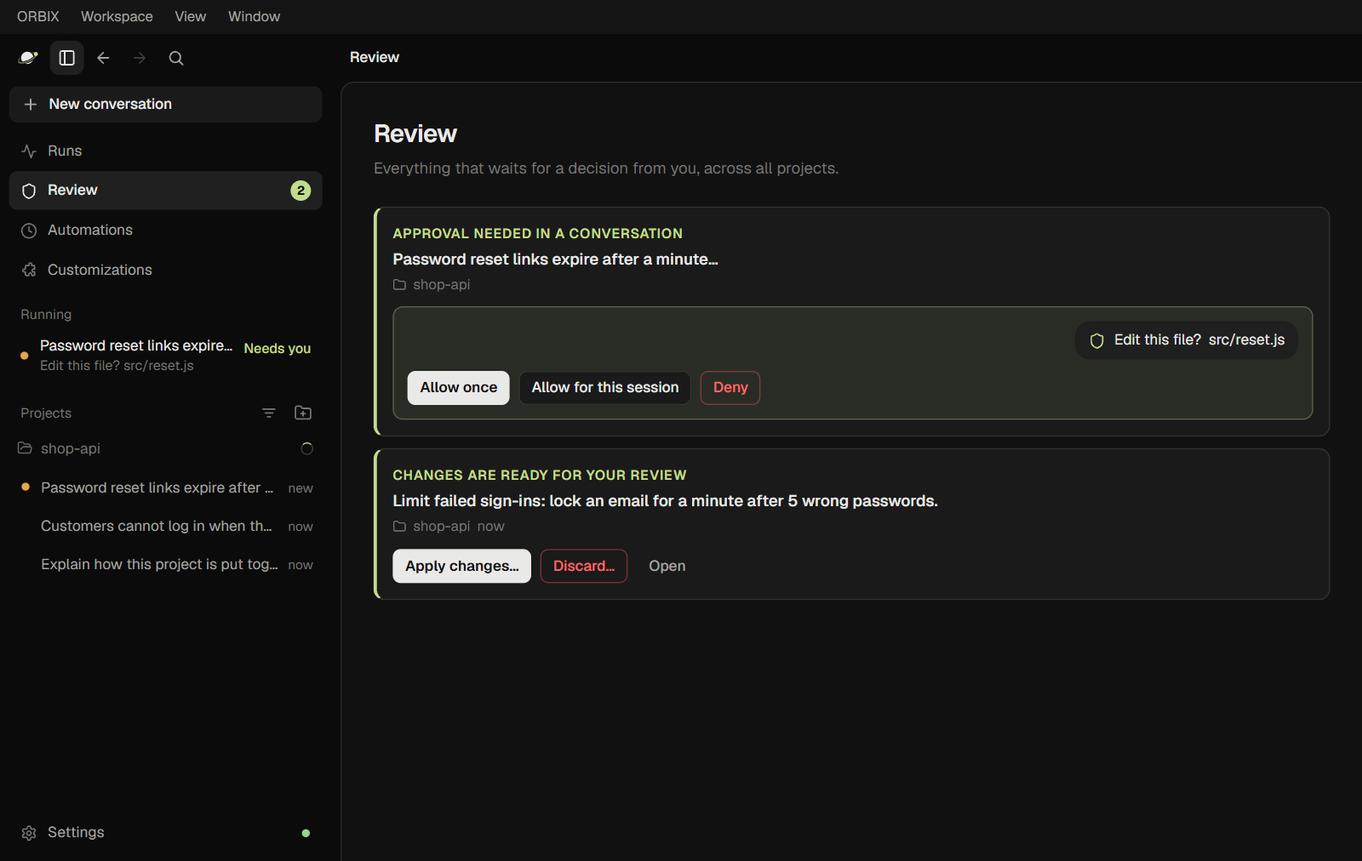
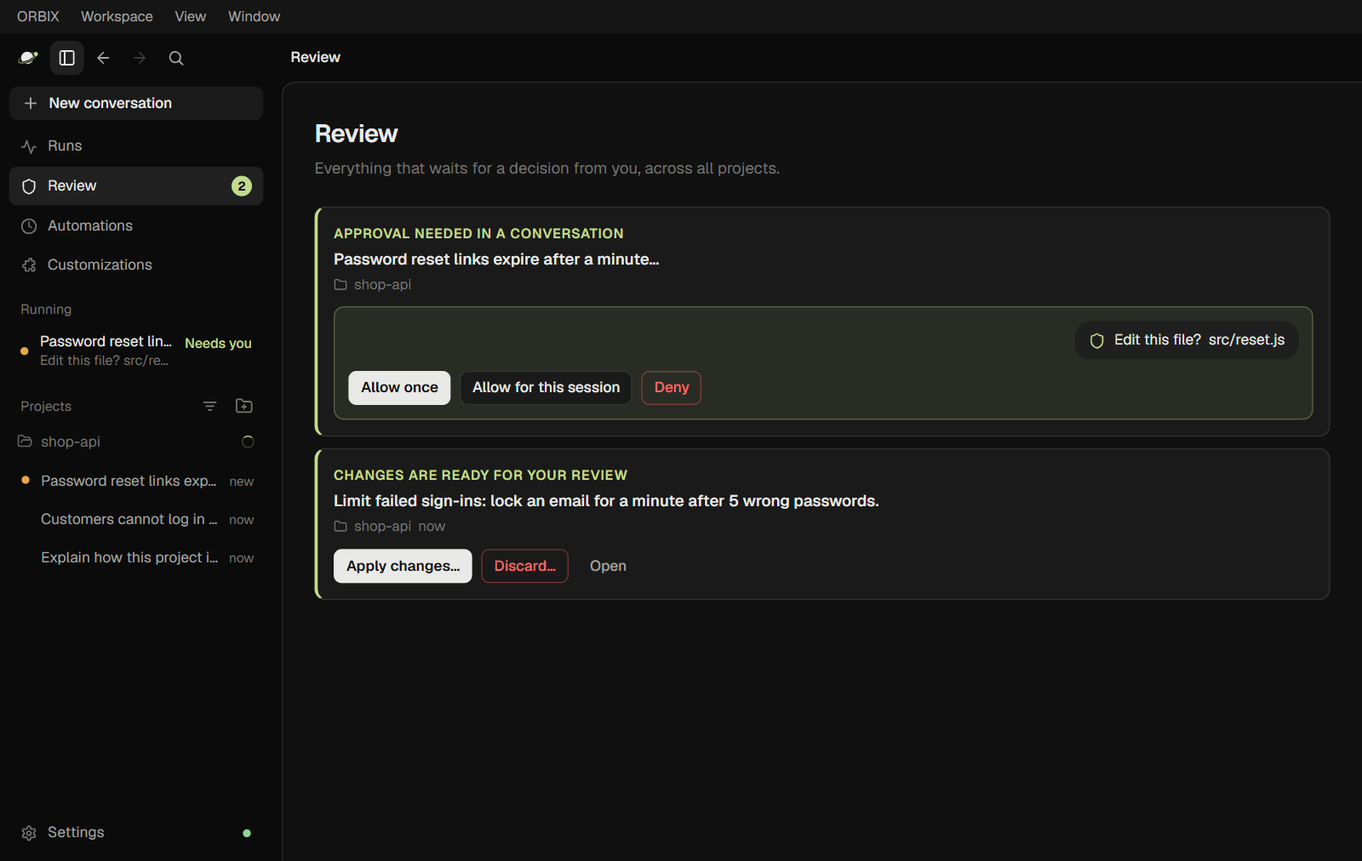
3.8.0: chat first, sharper replies, thumbs on replies
- Side panel closed until opened; sidebar 240px; centred column
  (clamp 560-664px). Old configs switch once (layoutOnce; a dragged
  sidebar width is kept).
- Replies: tighter rhythm, white bullets, amber inline code without a
  border (paths alike), compact user bubble, calmer Home title.
- Copy, thumbs up, thumbs down, retry, time and model in one row; marks
  stay in localStorage; thumbs down offers answer again, another model,
  or a prefilled report (Settings -> Give feedback).
- Removed the old settings overview styles and four unused exports.

diff --git a/site/index.html b/site/index.html
@@ -74,8 +74,8 @@
       <div class="hero-bg" aria-hidden="true"><canvas class="orbit"></canvas></div>
       <div class="hero-in">
         <a class="pill" href="#releases" data-reveal>
-          <span class="pill-v">3.7.0</span>
-          <span>New Settings, your own shortcuts, a built-in browser</span>
+          <span class="pill-v">3.8.0</span>
+          <span>Chat first, sharper replies, 👍 and 👎</span>
           <svg class="pill-go" viewBox="0 0 16 16" width="14" height="14" aria-hidden="true"><path d="M6 4l4 4-4 4" fill="none" stroke="currentColor" stroke-width="1.5" stroke-linecap="round" stroke-linejoin="round"/></svg>
         </a>
         <h1 id="hero-t" class="hero-t" data-split>The coding agent that <em>asks first.</em></h1>
@@ -91,7 +91,7 @@
           </a>
         </div>
         <ul class="facts" data-reveal aria-label="About the installer">
-          <li><code>ORBIX-Setup-3.7.0.exe</code></li>
+          <li><code>ORBIX-Setup-3.8.0.exe</code></li>
           <li>116 MB</li>
           <li>Windows 10 and 11, x64</li>
           <li>No admin rights</li>
@@ -113,7 +113,7 @@
 
     <section class="spec wrap" aria-label="Release facts">
       <dl>
-        <div><dt>Version</dt><dd>3.7.0</dd></div>
+        <div><dt>Version</dt><dd>3.8.0</dd></div>
         <div><dt>Released</dt><dd>Nov 20, 2026</dd></div>
         <div><dt>Installer</dt><dd>116 MB, per user</dd></div>
         <div><dt>Providers</dt><dd>17, plus custom servers</dd></div>
@@ -267,7 +267,7 @@
     <section id="screens" class="sec wrap" aria-labelledby="shots-t">
       <header class="sec-head center">
         <p class="eyebrow" data-reveal>Screens</p>
-        <h2 id="shots-t" data-reveal>Screens from 3.7.0.</h2>
+        <h2 id="shots-t" data-reveal>Screens from 3.8.0.</h2>
       </header>
       <div class="gallery" data-reveal>
         <div class="g-tabs" role="tablist" aria-label="Screens">
@@ -355,10 +355,10 @@
         <h2 id="rel-t" data-reveal>Shipped often, written down plainly.</h2>
       </header>
       <ol class="rel">
-        <li data-reveal><time datetime="2026-11-20">Nov 20, 2026</time><a href="https://github.com/chsxthwik/ORBIX/releases/tag/v3.7.0"><b>3.7.0</b><span>Settings redesigned, shortcuts you can change, network access rules for web reads, a built-in browser in the Windows app, project pages and Give feedback.</span><em>Latest</em></a></li>
+        <li data-reveal><time datetime="2026-11-20">Nov 20, 2026</time><a href="https://github.com/chsxthwik/ORBIX/releases/tag/v3.8.0"><b>3.8.0</b><span>Chat first: the side panel starts closed, a narrower sidebar and column, sharper replies with quieter inline code, and 👍 / 👎 on every reply.</span><em>Latest</em></a></li>
+        <li data-reveal><time datetime="2026-11-20">Nov 20, 2026</time><a href="https://github.com/chsxthwik/ORBIX/releases/tag/v3.7.0"><b>3.7.0</b><span>Settings redesigned, shortcuts you can change, network access rules for web reads, a built-in browser in the Windows app, project pages and Give feedback.</span></a></li>
         <li data-reveal><time datetime="2026-11-20">Nov 20, 2026</time><a href="https://github.com/chsxthwik/ORBIX/releases/tag/v3.6.0"><b>3.6.0</b><span>Automations on a schedule, a Browser tab that previews the apps running on your PC, side questions with /btw, and rule files with triggers.</span></a></li>
         <li data-reveal><time datetime="2026-11-20">Nov 20, 2026</time><a href="https://github.com/chsxthwik/ORBIX/releases/tag/v3.5.1"><b>3.5.1</b><span>Settings fixed on wide screens, deleted conversations restorable for 30 days, a wider side panel, fireworks off the sidebar.</span></a></li>
-        <li data-reveal><time datetime="2026-11-20">Nov 20, 2026</time><a href="https://github.com/chsxthwik/ORBIX/releases/tag/v3.5.0"><b>3.5.0</b><span>Settings as a page with Preferences, Notifications, Projects and Worktrees; archive and sort in the sidebar; send with Ctrl+Enter; a taskbar flash and chime when the agent needs you.</span></a></li>
         <li data-reveal><time datetime="2026-11-20">Nov 20, 2026</time><a href="https://github.com/chsxthwik/ORBIX/releases/tag/v3.3.0"><b>3.3.0</b><span>Runs: a task planned, approved and done in its own git worktree, then reviewed and applied. One Review queue, recovery after a restart, folded steps.</span></a></li>
         <li data-reveal><time datetime="2026-11-04">Nov 4, 2026</time><a href="https://github.com/chsxthwik/ORBIX/releases/tag/v3.0.0"><b>3.0.0</b><span>First release of ORBIX as a Windows app with its own agent.</span></a></li>
       </ol>
@@ -392,7 +392,7 @@
           <img class="cta-logo" src="assets/img/logo.svg?v=7" alt="" width="56" height="56" loading="lazy">
           <h2 id="start-t">Install ORBIX</h2>
           <ol class="steps">
-            <li><kbd>1</kbd><span>Run <code>ORBIX-Setup-3.7.0.exe</code>. It installs for your account only.</span></li>
+            <li><kbd>1</kbd><span>Run <code>ORBIX-Setup-3.8.0.exe</code>. It installs for your account only.</span></li>
             <li><kbd>2</kbd><span>Open Settings &rarr; Providers and connect a model.</span></li>
             <li><kbd>3</kbd><span>Open a project folder, describe a task and press Enter.</span></li>
           </ol>
@@ -402,7 +402,7 @@
               Download for Windows
             </a>
           </div>
-          <p class="cta-meta">3.7.0 &middot; 116 MB &middot; Windows 10 and 11, x64 &middot; Updates itself from GitHub releases</p>
+          <p class="cta-meta">3.8.0 &middot; 116 MB &middot; Windows 10 and 11, x64 &middot; Updates itself from GitHub releases</p>
         </div>
       </div>
     </section>

diff --git a/web/js/main.js b/web/js/main.js
@@ -13,7 +13,7 @@ import { openHelp } from './help.js';
 import { mountPanel, showTab, viewFile, stepPanelTab } from './panels.js';
 import { actionFor, comboOf, firstKey } from './keys.mjs';
 import { browserPrefs, desktopBrowser, canShowInside } from './browser.js';
-import { settingsSearchItems } from './settings.js';
+import { settingsSearchItems, openFeedback } from './settings.js';
 import { H as shell, drawMenubar, drawToolbar, tickToolbar, syncOverview, navRecord, navGo, bindHoverCards, updatedLabel } from './shell.js';
 import { folderPicker, palette, syncExtDialogs, confirmDialog, promptDialog, popMenu, isApproval } from './dialogs.js';
 import { onBoard, boardState } from './review.js';
@@ -50,12 +50,12 @@ const overlay = { side: false, panel: false };
 // Every theme belongs to a mode (dark or light); the mode drives color-scheme and anything that only needs to know which.
 const THEMES = { dark: 'dark', light: 'light', midnight: 'dark', frost: 'light', orbix: 'dark', sunset: 'dark', koi: 'light', aurora: 'dark', dusk: 'dark' };
 /** The Windows app's interface size: a chosen factor, or on Auto one that fits the screen (larger on wide screens). */
-export function interfaceScale(v, screenWidth = window.orbixDesktop?.screenWidth || 0) {
+function interfaceScale(v, screenWidth = window.orbixDesktop?.screenWidth || 0) {
   if (typeof v === 'number' && v >= 0.5 && v <= 2) return v;
   return screenWidth >= 3000 ? 1.25 : screenWidth >= 2300 ? 1.15 : 1;
 }
 // The sidebar can be dragged between these widths (double-click the edge to reset).
-const SIDE_MIN = 220, SIDE_MAX = 440, SIDE_W = 264;
+const SIDE_MIN = 200, SIDE_MAX = 440, SIDE_W = 240;
 
 function applyPrefs() {
   const u = S.ui;
@@ -70,10 +70,10 @@ function applyPrefs() {
   root.style.setProperty('--fs', (u.fontSize || 14) + 'px');
   root.classList.toggle('compact', u.density === 'compact');
   root.dataset.density = u.density === 'compact' ? 'compact' : 'comfortable';
-  root.style.setProperty('--side-w', Math.min(SIDE_MAX, Math.max(SIDE_MIN, u.sidebarW || 264)) + 'px');
+  root.style.setProperty('--side-w', Math.min(SIDE_MAX, Math.max(SIDE_MIN, u.sidebarW || SIDE_W)) + 'px');
   root.style.setProperty('--panel-w', (u.panelW || 380) + 'px');
   const side = narrowSide.matches ? overlay.side : u.sidebar !== false;
-  const panel = !!activeTab() && !isHub() && (narrowPanel.matches ? overlay.panel : u.rightPanel !== false);
+  const panel = !!activeTab() && !isHub() && (narrowPanel.matches ? overlay.panel : u.rightPanel === true); // closed until you open it
   appEl.classList.toggle('no-side', !side);
   appEl.classList.toggle('no-panel', !panel);
   appEl.classList.toggle('overlay-side', side && narrowSide.matches);
@@ -584,6 +584,7 @@ on('search', (scope) => openSearch(scope));
 on('open-run', (id) => goHub(id ? 'run' : 'runs', id || undefined));
 on('open-tab', (id) => S.tabs.has(id) && setActive(id));
 on('open-session', (s) => s && openSession(s));
+on('feedback', (draft) => openFeedback(draft));
 // Links in replies open where Settings → Browser says: the Browser tab beside the conversation, or your own browser.
 document.addEventListener('click', (e) => {
   const a = e.target.closest?.('a[href]');
@@ -905,6 +906,18 @@ async function adoptRunning(procs, { quiet = false } = {}) {
   return fresh;
 }
 
+/**
+ * Once, on the first start of 3.8: the chat-first layout (side panel closed until you open it, a narrower sidebar).
+ * A sidebar width you dragged yourself is kept; the old defaults (264 or 292) are not.
+ */
+function layoutOnce() {
+  if ((S.ui.layout || 0) >= 2) return;
+  const w = S.ui.sidebarW;
+  const patch = { layout: 2, rightPanel: false, ...(w === 264 || w === 292 || !w ? { sidebarW: SIDE_W } : {}) };
+  Object.assign(S.ui, patch); // before anything is drawn, so no redraw is needed
+  api.post('/api/prefs', { ui: patch }).catch(() => {});
+}
+
 async function boot() {
   initInterface();
   try {
@@ -913,6 +926,7 @@ async function boot() {
     setBanner(e.message);
     return;
   }
+  layoutOnce();
   applyPrefs();
   drawMenubar(menuEl);
   drawSidebar();

diff --git a/web/js/session.js b/web/js/session.js
@@ -1,7 +1,7 @@
 // One session view: transcript (with live streaming), tool approvals, composer.
 import { SessionBar } from './workbench.js';
 import { quoteOnSelect } from './quote.js';
-import { h, icon, replace, clear, toast, fmtTokens, fmtCost, fmtDuration, rafThrottle, kbd, copyButtonFeedback, copyText, baseName, leave, spinner, errorState, fmtElapsed } from './dom.js';
+import { h, icon, replace, clear, toast, fmtTokens, fmtCost, fmtDuration, rafThrottle, kbd, copyButtonFeedback, copyText, baseName, leave, spinner, errorState, fmtElapsed, lsGet, lsSet } from './dom.js';
 import { renderMarkdown } from './markdown.js';
 import { renderToolCard, output, diffCounts, statChips } from './tools.js';
 import { S, emit, textOf, sendPrompt, abort, setThinking, setModel, loadModels, refreshState, savePrefs, replyUi, openTab, closeTab } from './store.js';
@@ -836,6 +836,8 @@ export class TabView {
       copy.addEventListener('click', () => copyButtonFeedback(copy, text));
       acts.append(copy);
     }
+    // 👍 / 👎, kept on this PC. 👎 also offers what to do next: answer again, another model, or report it.
+    if (text && m.timestamp) acts.append(...this.rateButtons(m));
     // A failed reply has Retry in its error box.
     if (m.stopReason === 'aborted' || (m.stopReason !== 'error' && this.tab.state?.features?.includes('regenerate'))) {
       const retry = h('button', { class: 'msg-act retry', type: 'button', title: 'Regenerate this reply' }, icon('refresh', 13), 'Retry');
@@ -852,6 +854,37 @@ export class TabView {
     if (model) acts.append(h('span', { class: 'msg-model', title: m.provider ? `${m.provider}/${model}` : model }, model));
     wrap.append(acts);
     return wrap;
+  }
+
+  /** 👍 and 👎 on a reply. The choice is stored in this browser profile only, per conversation and reply. */
+  rateButtons(m) {
+    const key = `rate.${this.tab.state?.sessionId || this.tab.resume || this.tab.id}.${m.timestamp}`;
+    const up = h('button', { class: 'msg-act rate', type: 'button', title: 'Good reply', 'aria-label': 'Good reply' }, icon('thumb-up', 13));
+    const down = h('button', { class: 'msg-act rate', type: 'button', title: 'Bad reply: retry, change model or report it', 'aria-label': 'Bad reply' }, icon('thumb-down', 13));
+    const show = (v) => {
+      up.setAttribute('aria-pressed', String(v === 1));
+      down.setAttribute('aria-pressed', String(v === -1));
+    };
+    const set = (v) => {
+      const next = lsGet(key, 0) === v ? 0 : v;
+      lsSet(key, next || null);
+      show(next);
+      return next;
+    };
+    show(lsGet(key, 0));
+    up.addEventListener('click', () => set(1));
+    down.addEventListener('click', () => {
+      if (set(-1) !== -1) return;
+      const model = typeof m.model === 'string' ? `${m.provider ? `${m.provider}/` : ''}${m.model}` : '';
+      const latest = this.tab.messages[this.tab.messages.length - 1] === m || this.els.get(this.tab.messages[this.tab.messages.length - 1])?.contains(down);
+      popMenu(down, [
+        { header: 'Not a good reply?' },
+        latest && !this.tab.streaming && !this.tab.dead ? { icon: 'refresh', label: 'Answer again', run: () => this.retry() } : null,
+        !this.tab.dead ? { icon: 'cpu', label: 'Use another model…', run: () => this.pickModel() } : null,
+        { icon: 'alert', label: 'Report a problem…', run: () => emit('feedback', { kind: 'model', text: `${model ? `Model: ${model}\n\n` : ''}What was wrong with the reply:\n` }) },
+      ].filter(Boolean));
+    });
+    return [up, down];
   }
 
   /** The first reply after your message carries the agent's name (later steps of the same turn do not). */

diff --git a/web/css/app.css b/web/css/app.css
@@ -1135,7 +1135,6 @@ code.set-l { font-size: 13px; font-weight: 400; white-space: nowrap; }
 .ov-cta strong { font-size: 14px; }
 .ov-cta p { margin-top: 2px; color: var(--fg-2); font-size: 13px; }
 .ov-cta .btn { flex: none; }
-.ov-ic { display: grid; place-items: center; flex: none; width: 34px; height: 34px; border-radius: 9px; background: var(--bg-active); color: var(--fg-2); }
 .pv-tools { top: -26px; margin: 0 0 8px; padding: 0 0 8px; }
 .pv-list { gap: 6px; }
 .pv-group { margin: 14px 2px 2px; color: var(--fg-3); font: 600 12px/1.3 var(--font); letter-spacing: 0; text-transform: none; }
@@ -1240,7 +1239,7 @@ code.set-l { font-size: 13px; font-weight: 400; white-space: nowrap; }
 .about-maker-t strong { font-size: 16px; font-weight: 600; letter-spacing: -.01em; }
 .about-maker-t p { max-width: 46ch; margin: 2px 0 6px; color: var(--fg-2); font-size: 13px; line-height: 1.55; }
 @media (max-width: 640px) { .about-maker { flex-direction: column; align-items: flex-start; } .about-maker .ascii-comx { max-width: 100%; } }
-.pv-ic svg, .ov-ic svg { display: block; }
+.pv-ic svg { display: block; }
 .c-row .cbtn > svg.pv-mark:first-child { color: var(--fg); }
 .list-h.with-mark { display: flex; align-items: center; gap: 7px; }
 .list-h.with-mark svg { flex: none; color: var(--fg-2); }
@@ -1355,23 +1354,11 @@ html.zen .main { border: 0; }
 .run-st { align-self: flex-start; margin-top: 1px; }
 
 /* ================= settings: overview lines, two-way switches, shortcuts ================= */
-.ov-card { overflow: hidden; border: 1px solid var(--line); border-radius: var(--r-lg); background: var(--bg-raise); }
-.ov-row { display: flex; align-items: center; gap: 12px; width: 100%; min-height: 48px; padding: 8px 14px; color: var(--fg); text-align: left; transition: background-color var(--t1) var(--ease); }
-.ov-row + .ov-row { border-top: 1px solid var(--line); }
-button.ov-row:hover { background: var(--bg-hover); }
-.ov-row.static .ov-val { margin-right: 26px; } /* lines up with the values of the rows that have a chevron */
-button.ov-row:focus-visible { outline-offset: -2px; }
-.ov-row .ov-ic { width: 28px; height: 28px; border-radius: 7px; }
-.ov-l { flex: none; font-size: 13px; font-weight: 500; }
-.ov-val { flex: 1; min-width: 0; color: var(--fg-2); font-size: 13px; text-align: right; }
-.ov-val.ok { color: var(--ok); }
-.ov-val.warn { color: var(--warn); }
-.ov-go { flex: none; color: var(--fg-3); }
 .seg { display: inline-flex; padding: 2px; border: 1px solid var(--line-2); border-radius: 8px; background: var(--bg-field); }
 .seg button { height: 26px; padding: 0 12px; border-radius: 6px; color: var(--fg-2); font-size: 12px; font-weight: 500; transition: background-color var(--t1) var(--ease), color var(--t1) var(--ease); }
 .seg button:hover { color: var(--fg); }
 .seg button[aria-checked=true] { background: var(--bg-active); color: var(--fg); box-shadow: inset 0 0 0 1px var(--line-2); }
-@media (forced-colors: active) { .ov-card, .seg { border-color: CanvasText; } .seg button[aria-checked=true] { outline: 2px solid Highlight; } }
+@media (forced-colors: active) { .seg { border-color: CanvasText; } .seg button[aria-checked=true] { outline: 2px solid Highlight; } }
 
 /* ================= compact density ================= */
 .compact .s-btn, .compact .proj-btn { height: 26px; font-size: 13px; }

diff --git a/web/css/shell.css b/web/css/shell.css
@@ -473,3 +473,41 @@ html.zen .main { border-left: 0; border-radius: 0; }
 @keyframes br-load { from { background-position: -40% 0; } to { background-position: 140% 0; } }
 .br-err { flex: none; padding: 8px 12px; border-bottom: 1px solid var(--line); background: color-mix(in srgb, var(--err) 8%, transparent); color: var(--err); font-size: 12.5px; overflow-wrap: anywhere; }
 webview.br-frame { display: flex; }
+
+/* ================= sharp: a dense, weighty conversation view ================= */
+/* A narrower sidebar and reading column, tighter line rhythm, quieter inline code and replies that end in one row
+   of small actions. Every size stays relative to the text size you choose (Appearance → Message text size). */
+:root { --col: clamp(560px, 38vw, 664px); }
+.tin { gap: 20px; }
+.msg .md, .md { line-height: 1.6; }
+.md > * + * { margin-top: .62em; }
+.md > :is(h1, h2, h3, h4) { margin-top: 1.15em; }
+.md > :is(h1, h2, h3, h4) + * { margin-top: .45em; }
+.md :is(h1, h2, h3) { font-weight: 600; letter-spacing: -.01em; }
+.md h1 { font-size: 1.24em; } .md h2 { font-size: 1.12em; } .md h3 { font-size: 1.02em; }
+.md ul, .md ol { padding-left: 1.25em; }
+.md li + li { margin-top: .16em; }
+.md li > :is(ul, ol) { margin-top: .16em; }
+.md li::marker { color: var(--fg-2); }
+.md strong { font-weight: 600; color: var(--fg); }
+/* Inline code: amber on a faint ground, no border; a file path looks the same and underlines when you point at it. */
+.md code.ic, .md code.ic.pathref { padding: .06em .34em; border: 0; border-radius: 4px; background: color-mix(in srgb, var(--fg) 5.5%, transparent); color: var(--code-ink); font-size: .85em; text-decoration: none; }
+.md code.pathref:hover { background: color-mix(in srgb, var(--fg) 9%, transparent); text-decoration: underline dotted; text-underline-offset: 3px; }
+/* Your message: a compact bubble. */
+.bubble { padding: 7px 13px; border-radius: 14px; }
+/* A reply ends in one quiet row: copy, 👍, 👎, retry, then when and which model. */
+.msg.asst > .msg-acts { gap: 2px; margin-top: 2px; opacity: .8; }
+.msg-acts .msg-time { order: 10; }
+.msg-acts .msg-model { order: 11; color: var(--fg-3); font-size: 11.5px; }
+.msg-act { width: 26px; height: 26px; padding: 0; justify-content: center; color: var(--fg-3); }
+.msg-act:hover { color: var(--fg); }
+.msg-act.rate[aria-pressed=true] { color: var(--fg); }
+.msg-act.rate[aria-pressed=true] svg { fill: currentColor; fill-opacity: .2; }
+.msg.user .msg-act { width: auto; padding: 0 7px; }
+/* The sidebar: tighter rows, quieter selection. */
+.app .sidebar .side-new { height: 30px; margin-bottom: 6px; }
+.sidebar .side-link, .sidebar .proj-btn, .sidebar .s-btn, .sidebar .foot-set { height: 28px; }
+.sidebar .side-h { margin-top: 12px; }
+.sidebar .s-row.cur .s-btn, .sidebar .side-link.cur { font-weight: 400; }
+/* Home asks quietly. */
+.home-title { font-size: clamp(22px, .9cqw + 15px, 30px); font-weight: 600; letter-spacing: -.02em; }

diff --git a/web/js/settings.js b/web/js/settings.js
@@ -555,12 +555,22 @@ const KINDS = [
   ['general', 'General feedback', 'Anything else about ORBIX.', ''],
 ];
 
+let fbDraft = null; // { kind, text } from a 👎 on a reply
+
+/** Settings → Give feedback, started with a kind and some text (👎 → Report a problem). */
+export function openFeedback(draft) {
+  fbDraft = draft || null;
+  return openSettings('feedback');
+}
+
 function tabFeedback(el) {
-  let kind = 'bug';
+  const draft = fbDraft;
+  fbDraft = null;
+  let kind = KINDS.some(([k]) => k === draft?.kind) ? draft.kind : 'bug';
   const radios = h('div', { class: 'fb-kinds', role: 'radiogroup', 'aria-label': 'Feedback type' }, KINDS.map(([k, l]) => h('label', { class: 'fb-kind' }, h('input', { type: 'radio', name: 'fb-kind', value: k, checked: k === kind ? true : null, onchange: () => ((kind = k), sync()) }), h('span', null, l))));
   const guide = h('p', { class: 'set-note' });
   const title = h('input', { type: 'text', class: 'fb-title', placeholder: 'A short title', 'aria-label': 'Title', maxlength: 120 });
-  const text = h('textarea', { class: 'fb-text', rows: 8, 'aria-label': 'Description' });
+  const text = h('textarea', { class: 'fb-text', rows: 8, 'aria-label': 'Description' }, draft?.text || '');
   const diag = h('input', { type: 'checkbox', checked: true });
   const sync = () => {
     const k = KINDS.find(([x]) => x === kind);
@@ -595,7 +605,7 @@ function tabFeedback(el) {
       h('p', { class: 'set-note' }, 'Nothing is sent from ORBIX: the report opens in your browser as a new GitHub issue, and you send it from there. API keys, file contents and conversations are never included. Attach a screenshot there if it helps.')),
     h('div', { class: 'set-actions' }, btn('Continue on GitHub', submit, 'primary')));
   diag.addEventListener('change', () => (preview.hidden = !diag.checked));
-  setTimeout(() => text.focus({ preventScroll: true }), 0);
+  setTimeout(() => (text.focus({ preventScroll: true }), text.setSelectionRange(text.value.length, text.value.length)), 0);
 }
 
 // ================= worktrees =================

diff --git a/web/js/browser.js b/web/js/browser.js
@@ -2,8 +2,7 @@
 // open; the Windows app shows any web page in its own browser session (separate cookies, downloads to a folder you
 // choose); a plain web browser can only show pages on this computer inside ORBIX. Visited addresses feed the address
 // bar's suggestions and can be cleared.
-import { S, savePrefs, activeTab, emit } from './store.js';
-import { openLink } from './engine.js';
+import { S, savePrefs } from './store.js';
 
 /** { openLinks: 'external' | 'builtin', downloads: folder or '' (= the Downloads folder) }. */
 export const browserPrefs = () => ({ openLinks: 'external', downloads: '', ...(S.ui.browser || {}) });
@@ -12,7 +11,7 @@ export const browserPrefs = () => ({ openLinks: 'external', downloads: '', ...(S
 export const desktopBrowser = () => window.orbixDesktop?.browser || null;
 
 /** Is this an http page on this computer? */
-export function localPage(raw) {
+function localPage(raw) {
   try {
     const u = new URL(raw);
     return u.protocol === 'http:' && (u.hostname === 'localhost' || u.hostname === '127.0.0.1');
@@ -51,10 +50,3 @@ export function rememberVisit(url) {
 }
 
 export const clearBrowserHistory = () => savePrefs({ browserHistory: [] });
-
-/** Open a link from a reply: in the Browser tab when you chose the built-in browser and it can show it there. */
-export function openUrl(url) {
-  if (browserPrefs().openLinks === 'builtin' && activeTab() && canShowInside(url)) return emit('browse', url), true;
-  openLink(url);
-  return false;
-}

diff --git a/web/js/dom.js b/web/js/dom.js
@@ -44,6 +44,8 @@ const NS = 'http://www.w3.org/2000/svg';
 const P = {
   bookmark: 'M19 21l-7-4-7 4V5a2 2 0 0 1 2-2h10a2 2 0 0 1 2 2z',
   plus: 'M12 5v14M5 12h14',
+  'thumb-up': 'M7 10v12M15 5.88 14 10h5.83a2 2 0 0 1 1.92 2.56l-2.33 8A2 2 0 0 1 17.5 22H4a2 2 0 0 1-2-2v-8a2 2 0 0 1 2-2h2.76a2 2 0 0 0 1.79-1.11L12 2a3.13 3.13 0 0 1 3 3.88Z',
+  'thumb-down': 'M17 14V2M9 18.12 10 14H4.17a2 2 0 0 1-1.92-2.56l2.33-8A2 2 0 0 1 6.5 2H20a2 2 0 0 1 2 2v8a2 2 0 0 1-2 2h-2.76a2 2 0 0 0-1.79 1.11L12 22a3.13 3.13 0 0 1-3-3.88Z',
   minus: 'M5 12h14',
   undo: 'M3 12a9 9 0 1 0 9-9 9.75 9.75 0 0 0-6.74 2.74L3 8M3 3v5h5',
   x: 'M18 6 6 18M6 6l12 12',

diff --git a/web/js/shell.js b/web/js/shell.js
@@ -37,7 +37,7 @@ const step = (dir) => {
   for (let i = hist.at + dir; i >= 0 && i < hist.list.length; i += dir) if (alive(hist.list[i])) return i;
   return -1;
 };
-export const canGo = (dir) => step(dir) >= 0;
+const canGo = (dir) => step(dir) >= 0;
 export function navGo(dir) {
   const i = step(dir);
   if (i < 0) return;

diff --git a/README.md b/README.md
@@ -93,7 +93,7 @@ ORBIX updates itself from GitHub releases: it downloads in the background and in
 | **Automations** | Prompts ORBIX starts by itself every hour, every day, on weekdays or every week, each as a new conversation in its project. Run now, turn on or off, edit. They run while ORBIX is open; in Ask first a run waits for your OK in Review. |
 | **Settings** | A card over the workspace (<kbd>Ctrl</kbd>+<kbd>,</kbd>; <kbd>Esc</kbd> closes; <kbd>Ctrl</kbd>+<kbd>K</kbd> finds any setting). **General**: permission preset, tool permissions, network access rules, Steer or Queue while the agent works, the send key. **Application**: updates, data folder, help. **Appearance**, **Shortcuts** (change any key), **Notifications** (with volume), **Providers**, **Models**, **Browser** (where links open, downloads, history, site data). Customizations: Instructions, Checks, Tools & MCP. A page per project (folder, recent conversations, its instruction and rule files, its check command), Conversations (archived and recently deleted), Worktrees, and **Give feedback**. |
 | **Message box** | <kbd>+</kbd> adds files, a mention (<kbd>@</kbd>) or a command (<kbd>/</kbd>); the model and its thinking level; the permission chip; the context meter. |
-| **Conversation** | Folded steps, readable Markdown with code blocks and tables, a navigator of dots on the left edge (one per message of yours), find (<kbd>Ctrl</kbd>+<kbd>F</kbd>), focus mode (<kbd>Ctrl</kbd>+<kbd>Shift</kbd>+<kbd>F</kbd>). |
+| **Conversation** | A centred column; the steps of a turn fold into one "Worked for…" line above the answer. Readable Markdown with code blocks and tables; under each reply copy, 👍, 👎 (answer again, another model, or report it) and retry. A navigator of dots on the left edge (one per message of yours), find (<kbd>Ctrl</kbd>+<kbd>F</kbd>), focus mode (<kbd>Ctrl</kbd>+<kbd>Shift</kbd>+<kbd>F</kbd>). The side panel stays closed until you open it. |
 
 ## Models
 

diff --git a/CHANGELOG.md b/CHANGELOG.md
@@ -1,5 +1,12 @@
 # Changelog
 
+## 3.8.0 (2026-11-20)
+- **Chat first.** The side panel starts closed and opens when you ask for it (toolbar, Ctrl+J or the Overview card); the sidebar is narrower (240px; a width you dragged is kept); the conversation is a narrower, centred column. Existing setups switch to this once, on the first start of 3.8.
+- **Sharper replies.** Tighter line spacing and list rhythm, white bullets, calmer headings, inline code in amber on a faint ground with no border (file paths look the same and underline when you point at them), and a compact bubble for your messages.
+- **👍 and 👎 on every reply**, in one quiet row with copy, retry, the time and the model. Your mark stays on this PC; 👎 offers to answer again, switch the model, or report the problem (Settings → Give feedback, with the model filled in).
+- **Home** asks its question at a calmer size.
+- **Cleanup.** Removed the styles of the old Settings overview page and four exports nothing used.
+
 ## 3.7.0 (2026-11-20)
 - **Settings, redesigned.** A card over the workspace with the page list on the left: General, Application, Appearance, Shortcuts, Notifications, Providers, Models and Browser; Customizations (Instructions, Checks, Tools & MCP); a page for each project; Conversations and Worktrees; Give feedback and this copy of ORBIX at the bottom. Pill buttons, pill selects and quiet cards; × or Esc closes it. Ctrl+K finds any setting by name and opens its page.
 - **General.** Permission preset, Tool permissions (trusted commands, where commands run), Network access rules, what Enter does while the agent works (Steer or Queue; Alt+Enter does the other), the send key and following output.
